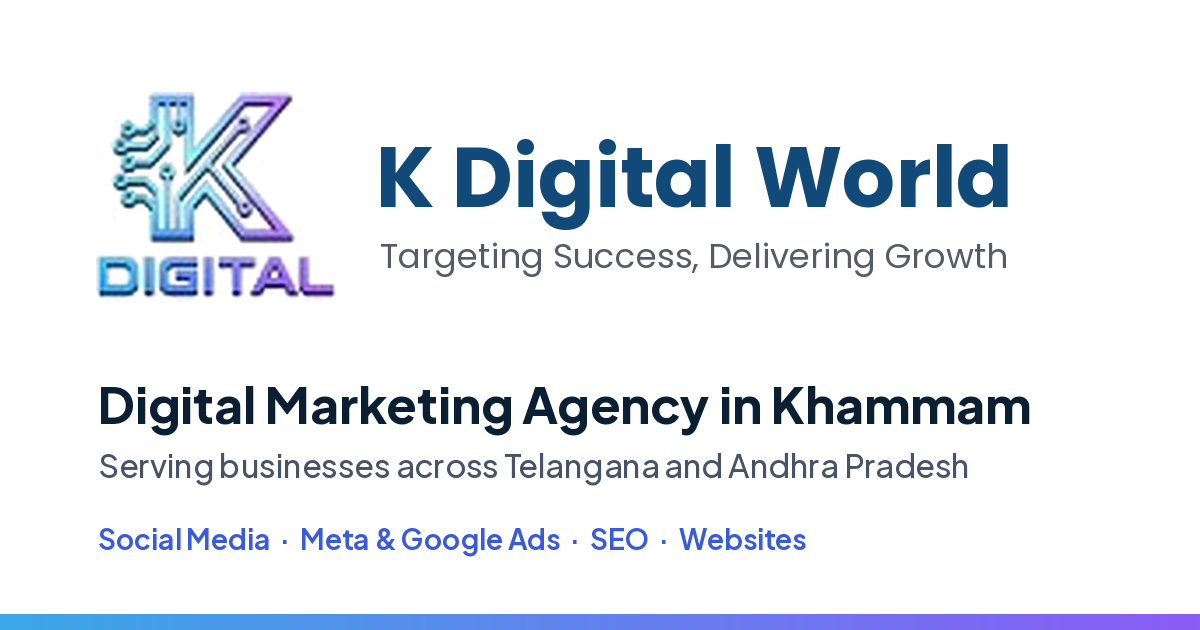
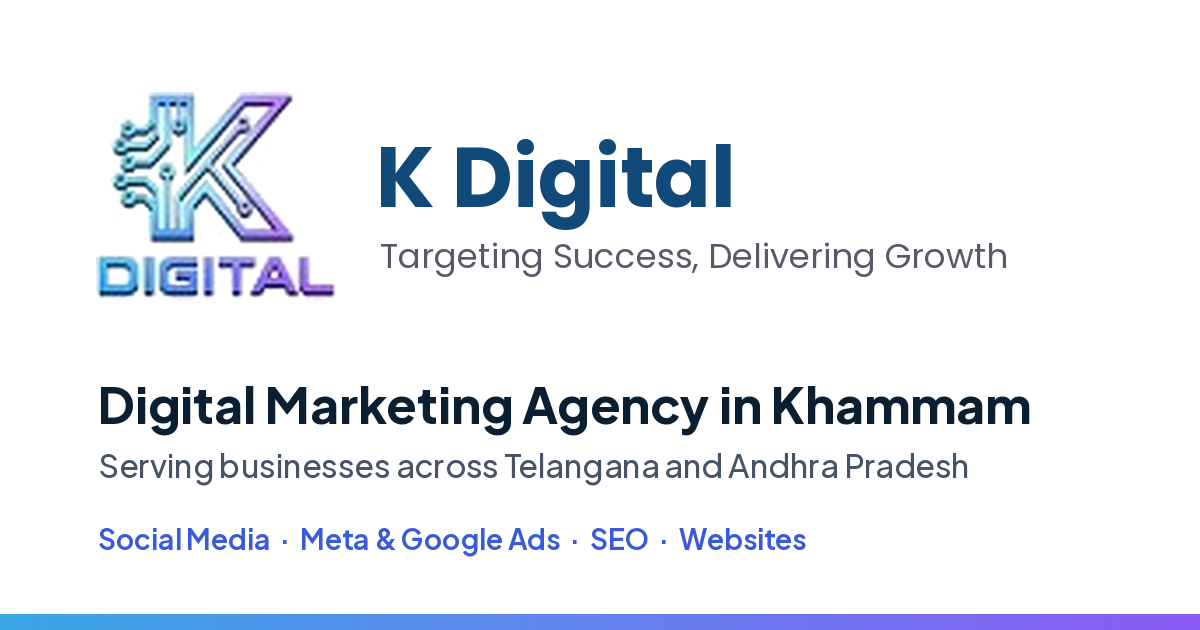
Rebrand: K Digital (remove 'World')

Changed region(s): [[0.6167, 0.2111, 0.8633, 0.3317]]

diff --git a/404.html b/404.html
@@ -3,7 +3,7 @@
 <head>
 <meta charset="utf-8">
 <meta name="viewport" content="width=device-width, initial-scale=1">
-<title>Page not found | K Digital World</title>
+<title>Page not found | K Digital</title>
 <meta name="robots" content="noindex">
 <link rel="icon" href="/favicon.ico" sizes="48x48">
 <link rel="icon" type="image/png" sizes="32x32" href="/favicon-32x32.png">
@@ -12,10 +12,10 @@
 </head>
 <body class="page-404">
 <main class="nf">
-  <img src="/assets/logo-icon.png" srcset="/assets/logo-icon.png 2x, /assets/logo-icon@3x.png 3x" alt="K Digital World logo" width="50" height="44">
+  <img src="/assets/logo-icon.png" srcset="/assets/logo-icon.png 2x, /assets/logo-icon@3x.png 3x" alt="K Digital logo" width="50" height="44">
   <h1>Page not found</h1>
   <p>The page you are looking for does not exist or has moved.</p>
-  <a class="btn btn-primary" href="/">Back to K Digital World</a>
+  <a class="btn btn-primary" href="/">Back to K Digital</a>
 </main>
 </body>
 </html>

diff --git a/admin/index.html b/admin/index.html
@@ -5,7 +5,7 @@
 <meta name="viewport" content="width=device-width, initial-scale=1">
 <meta name="robots" content="noindex, nofollow">
 <meta name="referrer" content="same-origin">
-<title>Website editor | K Digital World</title>
+<title>Website editor | K Digital</title>
 <link rel="icon" type="image/png" sizes="32x32" href="/favicon-32x32.png">
 <link rel="stylesheet" href="/admin/admin.css">
 <script src="/admin/admin.js" defer></script>
@@ -17,7 +17,7 @@
   <form class="login-card" id="login-form" novalidate>
     <img class="login-logo" src="/assets/logo-icon@3x.png" alt="" width="82" height="72">
     <h1>Website editor</h1>
-    <p class="login-sub">K Digital World</p>
+    <p class="login-sub">K Digital</p>
     <div class="notice notice--warn" id="login-config" hidden></div>
     <label class="f-label" for="username">Username</label>
     <div class="login-field">

diff --git a/api/chat.js b/api/chat.js
@@ -1,5 +1,5 @@
 /**
- * K Digital World website assistant: Vercel serverless function (Node.js, CommonJS).
+ * K Digital website assistant: Vercel serverless function (Node.js, CommonJS).
  *
  *   POST /api/chat   body: { "messages": [ { "role": "user" | "assistant", "content": "..." }, ... ] }
  *   200 -> { "reply": "..." }        4xx/5xx -> { "error": "<code>", "message": "<friendly text>" }
@@ -259,7 +259,7 @@ module.exports = async function handler(req, res) {
     let originHost = '';
     try { originHost = new URL(origin).host; } catch (_) { originHost = ''; }
     if (originHost !== String(host).split(',')[0].trim()) {
-      return fail(res, 403, 'forbidden', 'This chat only works on the K Digital World website.');
+      return fail(res, 403, 'forbidden', 'This chat only works on the K Digital website.');
     }
   }
 

diff --git a/main.js b/main.js
@@ -1,4 +1,4 @@
-/* K Digital World: small progressive enhancements, no dependencies. */
+/* K Digital: small progressive enhancements, no dependencies. */
 (function () {
   'use strict';
   // Contact details come from the page (rendered from the admin-edited content); values below are fallbacks.
@@ -6,7 +6,7 @@
   try { CFG = JSON.parse((document.getElementById('kd-config') || {}).textContent || '{}'); } catch (e) { CFG = {}; }
   var WA_NUMBER = CFG.whatsapp || '919912360547';
   var EMAIL = CFG.email || 'kdigitalads9@gmail.com';
-  var GREETING = CFG.greeting || 'Hello K Digital World, I would like a free consultation.';
+  var GREETING = CFG.greeting || 'Hello K Digital, I would like a free consultation.';
 
   // Sticky header shadow
   var header = document.querySelector('.site-header');

diff --git a/styles.css b/styles.css
@@ -1,4 +1,4 @@
-/* K Digital World — styles. Palette derived from the brand logo: navy wordmark + cyan-blue to purple icon gradient. */
+/* K Digital — styles. Palette derived from the brand logo: navy wordmark + cyan-blue to purple icon gradient. */
 /* Fonts: Plus Jakarta Sans (UI) + Poppins 700 (wordmark, matches the logo), self-hosted Google Fonts subsets.
    Metric-matched local fallbacks keep layout shift near zero while the webfonts swap in. */
 @font-face{font-family:"Plus Jakarta Sans";font-style:normal;font-weight:200 800;font-display:swap;src:url("assets/fonts/plus-jakarta-sans-latin-var.woff2") format("woff2")}

diff --git a/chat.css b/chat.css
@@ -1,4 +1,4 @@
-/* K Digital World: AI chat assistant panel (lazy-loaded with chat.js) */
+/* K Digital: AI chat assistant panel (lazy-loaded with chat.js) */
 .kdc{position:fixed;right:20px;bottom:96px;z-index:80;display:flex;flex-direction:column;width:min(384px,calc(100vw - 40px));height:min(620px,calc(100vh - 128px));height:min(620px,calc(100dvh - 128px));
   background:#fff;border-radius:22px;overflow:hidden;font-family:var(--font);color:var(--text);
   box-shadow:0 2px 6px rgba(16,24,40,.06),0 32px 64px -24px rgba(17,73,121,.45),0 0 0 1px rgba(17,73,121,.08);

diff --git a/admin/admin.css b/admin/admin.css
@@ -1,4 +1,4 @@
-/* K Digital World website editor. On-brand, no dependencies. */
+/* K Digital website editor. On-brand, no dependencies. */
 @font-face{font-family:"Plus Jakarta Sans";src:url(/assets/fonts/plus-jakarta-sans-latin-var.woff2) format("woff2");font-weight:200 800;font-display:swap}
 :root{--navy:#114979;--navy-deep:#0B2E4F;--ink:#0F1B2D;--muted:#5B6B82;--line:#E3E8F1;--soft:#F5F7FC;--blue:#2B78D2;--link:#1F64B5;--purple:#7B4FE0;
   --grad:linear-gradient(120deg,#2B78D2,#7B4FE0);--danger:#C62A47;--ok:#137A4B;--warn-bg:#FFF6E5;--warn-line:#F2C46D;

diff --git a/api/_lib/render.js b/api/_lib/render.js
@@ -1,5 +1,5 @@
 /**
- * Renders the public K Digital World page (and robots.txt / sitemap.xml) from the content JSON.
+ * Renders the public K Digital page (and robots.txt / sitemap.xml) from the content JSON.
  * Pure function of (content, options): used by api/page.js on Vercel and by the local dev server / tests.
  * All content strings are HTML-escaped here; the content never contains HTML.
  */

diff --git a/admin/admin.js b/admin/admin.js
@@ -1,4 +1,4 @@
-/* K Digital World website editor (vanilla JS, no dependencies).
+/* K Digital website editor (vanilla JS, no dependencies).
    Talks to /api/admin. Forms are generated from the schema the server sends, so the editor and the
    server-side validation always agree. Images are resized and converted to WebP in the browser. */
 (function () {

diff --git a/chat.js b/chat.js
@@ -1,4 +1,4 @@
-/* K Digital World: AI chat assistant widget (lazy-loaded by main.js). No dependencies.
+/* K Digital: AI chat assistant widget (lazy-loaded by main.js). No dependencies.
    Talks to /api/chat (Vercel serverless function holding the Gemini key). Never put API keys in this file. */
 (function () {
   'use strict';

diff --git a/README.md b/README.md
@@ -1,1 +1,1 @@
-# K Digital World: website 
+# K Digital: website 
